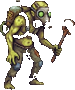
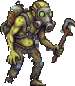
Astro Stomp: re-cut Venus gas miner and wasp with missing pieces restored

diff --git a/arcade/js/astro/spriteSizes.js b/arcade/js/astro/spriteSizes.js
@@ -8,8 +8,8 @@ export const spriteSizes = {
   "mercury/boss": [259, 290],
   "venus/jelly": [55, 84],
   "venus/slug": [98, 46],
-  "venus/miner": [75, 90],
-  "venus/wasp": [63, 66],
+  "venus/miner": [75, 86],
+  "venus/wasp": [54, 57],
   "venus/boss": [280, 250],
   "earth/plant": [84, 92],
   "earth/panther": [106, 56],

diff --git a/arcade/js/astro/art.js b/arcade/js/astro/art.js
@@ -54,7 +54,7 @@ const fxNames = [
 ];
 const fxVersion = "concept1";
 // Bump when a planet's alien or boss art is redrawn.
-const spriteVersion = "s2";
+const spriteVersion = "s3";
 
 function loadImage(path) {
   return new Promise((resolve, reject) => {
